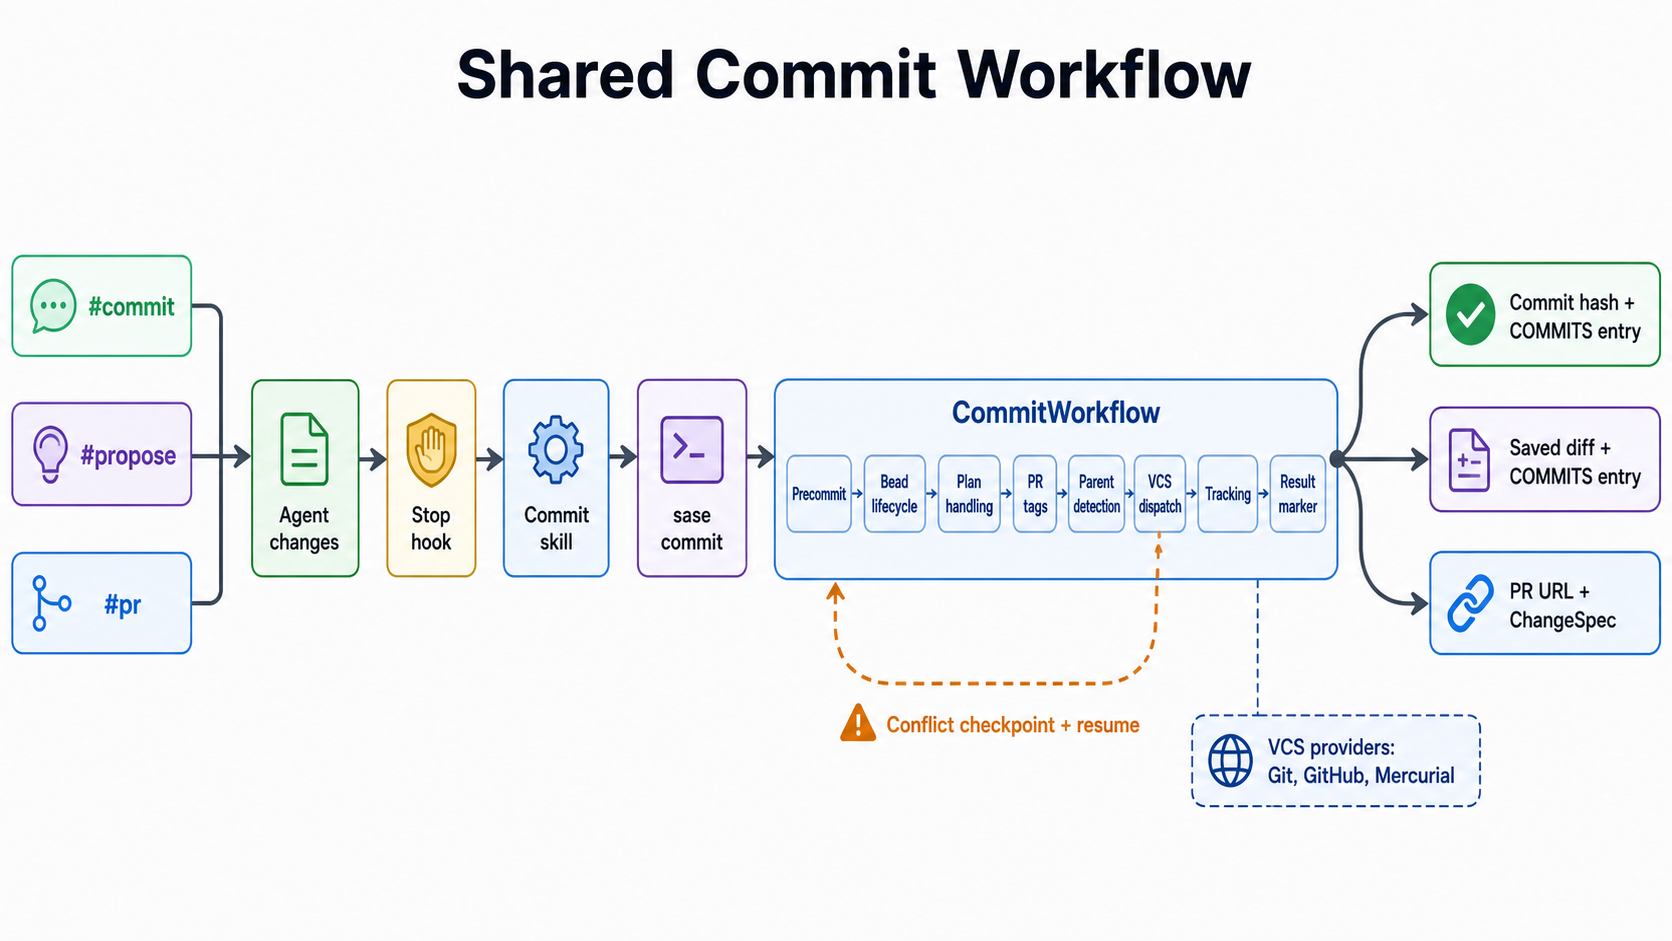
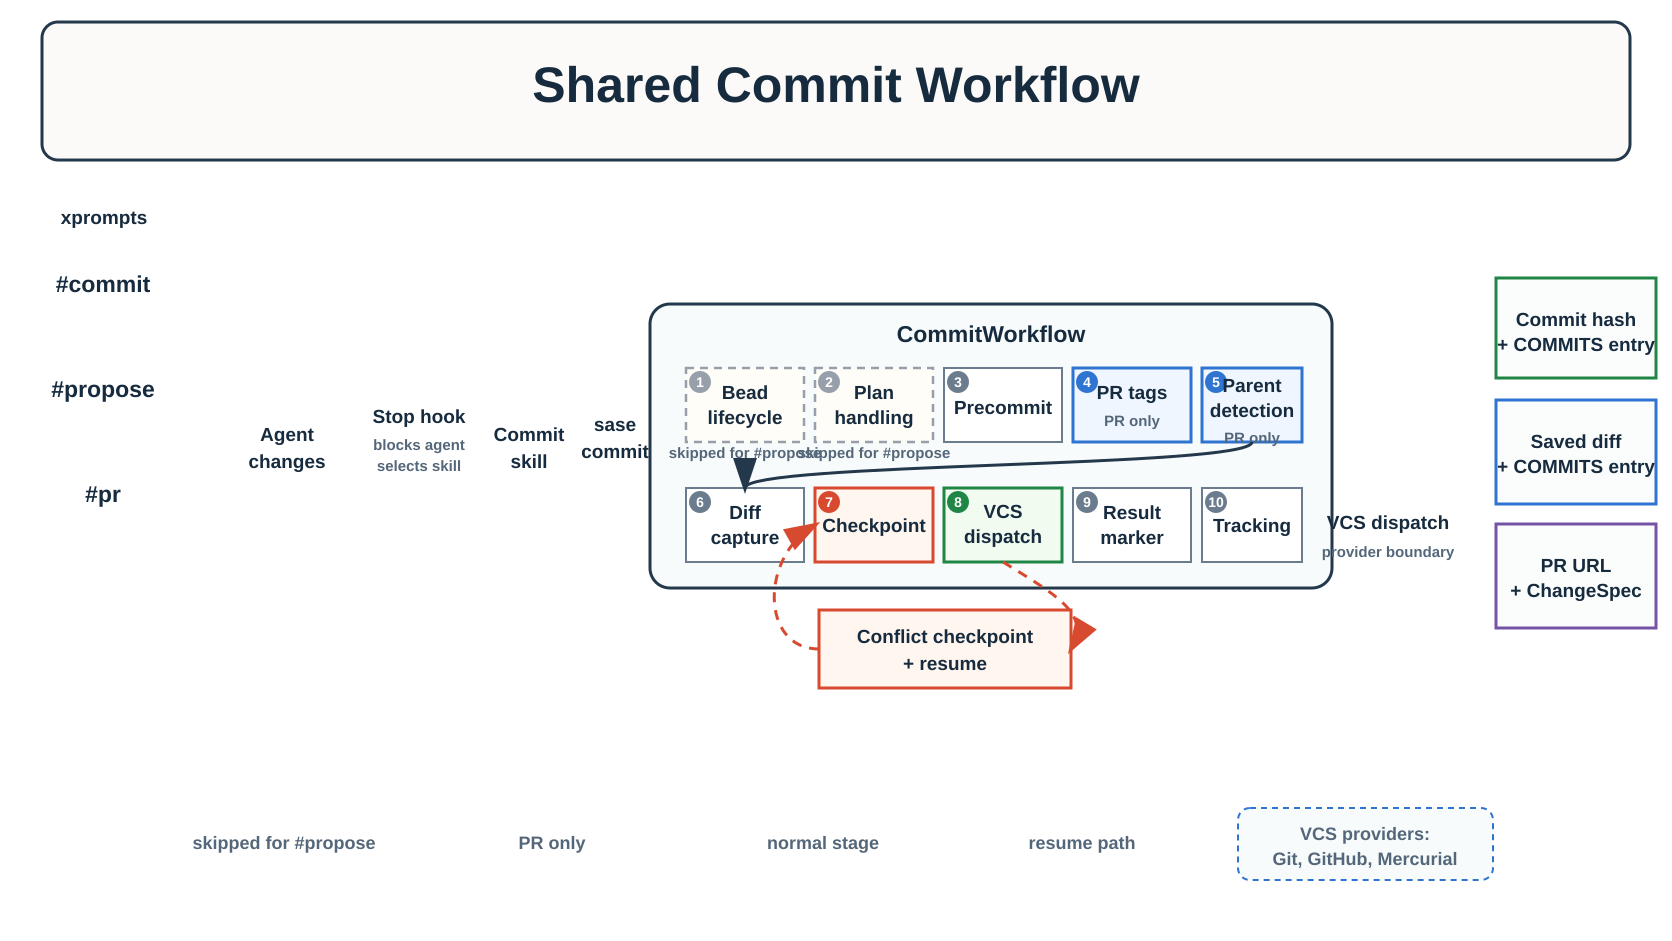
chore: regenerate commit-workflow infographic (sase-2s.12) (sase-2s)
PLAN=sdd/tales/202605/complete_sase_2s.md

diff --git a/docs/images/commit-workflow-infographic.prompt.md b/docs/images/commit-workflow-infographic.prompt.md
@@ -18,9 +18,9 @@ Use case: infographic-diagram
 
 Asset type: GitHub Markdown documentation infographic for docs/commit_workflows.md
 
-Primary request: Create a clean 16:9 architecture infographic showing the shared Sase commit/propose/pull-request
-workflow. Use a light neutral background, crisp blocks, clear arrows, a restrained palette with distinct accents, and
-short legible labels only. This is documentation art, not marketing art.
+Primary request: Create a clean 16:9 architecture infographic foundation showing the shared Sase
+commit/propose/pull-request workflow. Use a light neutral background, crisp blocks, clear arrows, a restrained palette
+with distinct accents, and large empty label zones. This is documentation art, not marketing art.
 
 Exact visible labels to include, spelled exactly:
 
@@ -34,18 +34,41 @@ Exact visible labels to include, spelled exactly:
 - Provider note label: VCS providers: Git, GitHub, Mercurial
 
 Composition: left-to-right flow. Put the three input xprompts in a compact stack on the left feeding Agent changes. Then
-Stop hook and Commit skill feed into a large central CommitWorkflow band with the stage labels as small chips. Put bead
-lifecycle and plan handling before precommit: the workflow closes/syncs beads and stages plan files before it runs the
-configured precommit command. From VCS dispatch, split into three clearly distinct output branches on the right. Add a
-small curved side loop around the checkpoint and dispatch area labeled Conflict checkpoint + resume, using a warning
-accent but not presenting it as a normal success branch. Add the provider note near the dispatch area.
+Stop hook and Commit skill feed into `sase commit` and a large central CommitWorkflow band. Inside the band, reserve
+room for ten ordered stage chips. Put bead lifecycle and plan handling before precommit: the workflow closes/syncs beads
+and stages plan files before it runs the configured precommit command. Mark bead lifecycle and plan handling as skipped
+for `#propose`; mark PR tags and parent detection as PR-only. From VCS dispatch, split into three clearly distinct
+output branches on the right. Add a curved warning-accent conflict/resume loop that leaves VCS dispatch on conflict and
+returns through the Checkpoint/VCS dispatch area after manual resolution; do not present it as a normal success branch.
+Add the provider note near the dispatch area.
 
 Avoid: logos, fake terminal screenshots, code blocks, dense paragraphs, tiny text, decorative gradients, dark
 background, one-hue palette, misspelled labels, extra made-up product names, watermarks.
 
+For reliable text, generate a mostly text-free visual foundation first, then add the exact labels locally as a raster
+overlay. Keep the final stage order numbered left-to-right and top-to-bottom:
+
+1. Bead lifecycle
+2. Plan handling
+3. Precommit
+4. PR tags
+5. Parent detection
+6. Diff capture
+7. Checkpoint
+8. VCS dispatch
+9. Result marker
+10. Tracking
+
 ## Post-Processing Notes
 
-No manual label post-processing was needed for the checked-in PNG. The current raster is 1672x941 and readable at GitHub
-Markdown width, but it was generated from an earlier compact stage list that places Precommit before Bead lifecycle and
-omits separate Diff capture and Checkpoint chips. Use the corrected prompt above for the next regeneration or relabeling
-pass.
+The checked-in PNG is 1672x941. It was regenerated with GPT image generation as a mostly text-free architecture
+foundation, then post-processed locally with exact labels and readable stage chips. The overlay fixes the prior critique
+items by:
+
+- labeling the left stack as `xprompts`;
+- ordering the central stages as bead lifecycle, plan handling, precommit, PR tags, parent detection, diff capture,
+  checkpoint, VCS dispatch, result marker, tracking;
+- marking bead lifecycle and plan handling as skipped for `#propose`;
+- marking PR tags and parent detection as PR-only;
+- anchoring the conflict resume path around Checkpoint and VCS dispatch; and
+- keeping the three output branches and VCS provider note visible on the right.
